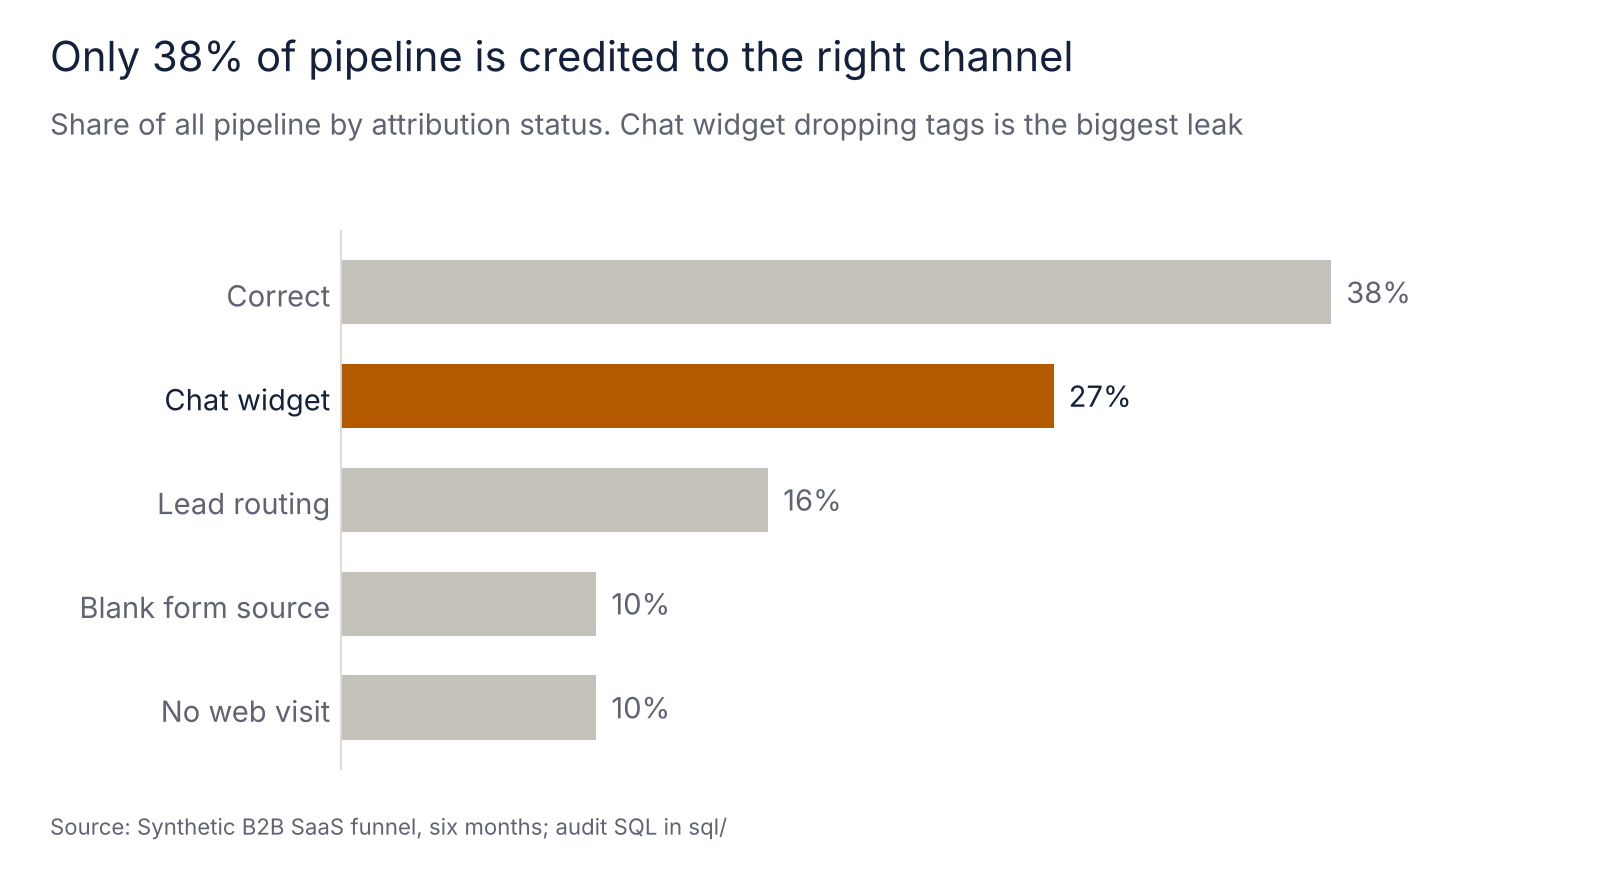
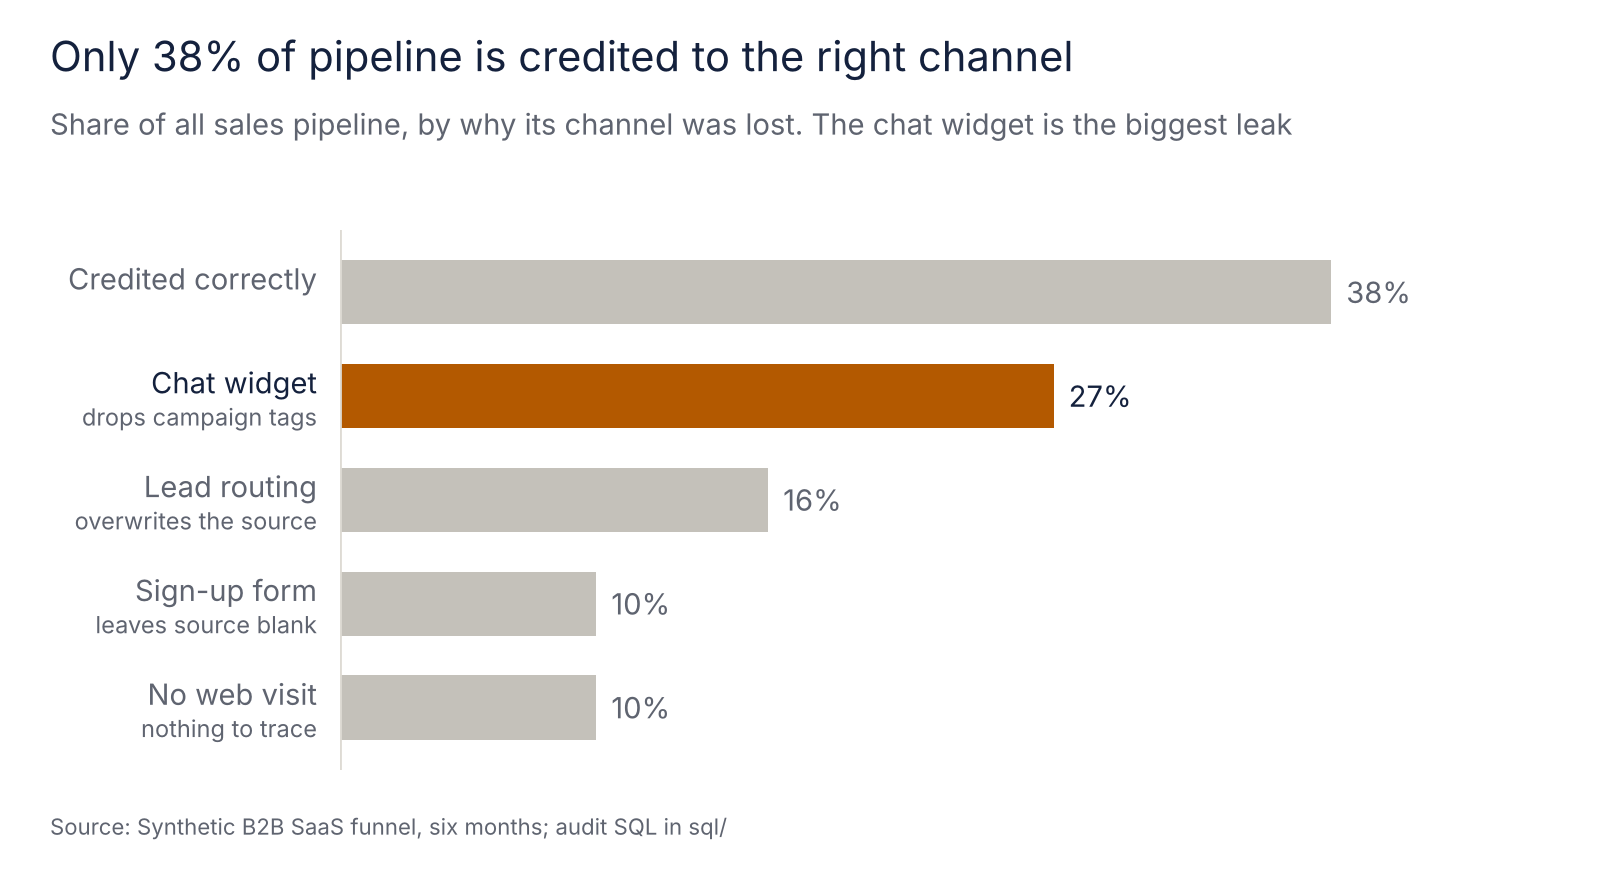
Charts a first-time reader can follow: plain headlines and explained labels

diff --git a/scripts/brand_style.py b/scripts/brand_style.py
@@ -8,6 +8,7 @@ Colours are validated with the dataviz palette checks (lightness band, chroma, c
 import matplotlib
 import matplotlib.pyplot as plt
 import matplotlib.ticker
+import matplotlib.transforms
 
 INK = "#14213d"        # navy: headlines, values, key labels
 MUTED = "#5f6470"      # deck, axis labels, source line (5.9:1 on white)
@@ -123,7 +124,23 @@ def save(fig, path):
     plt.close(fig)
 
 
-def hbar(ax, labels, values, highlight, fmt, color, xmax=None):
+def _row_labels(ax, ys, labels, highlight, sublabels=None):
+    """Category labels at the left of the plot, with an optional smaller second line that explains them."""
+    ax.set_yticks(ys)
+    if not sublabels:
+        ax.set_yticklabels(labels)
+        for i, t in enumerate(ax.get_yticklabels()):
+            t.set_color(INK if i in highlight else MUTED)
+        return
+    ax.set_yticklabels([""] * len(ys))
+    tr = matplotlib.transforms.blended_transform_factory(ax.transAxes, ax.transData)
+    for i, (y, lab, sub) in enumerate(zip(ys, labels, sublabels)):
+        ax.text(-0.02, y + 0.13, lab, transform=tr, ha="right", va="center", fontsize=VALUE,
+                color=INK if i in highlight else MUTED)
+        ax.text(-0.02, y - 0.2, sub, transform=tr, ha="right", va="center", fontsize=8.5, color=MUTED)
+
+
+def hbar(ax, labels, values, highlight, fmt, color, xmax=None, sublabels=None):
     """Horizontal bars, first item at the top. highlight: set of indexes drawn in the project colour."""
     n = len(values)
     ys = list(range(n))[::-1]
@@ -136,13 +153,10 @@ def hbar(ax, labels, values, highlight, fmt, color, xmax=None):
         small_neg = v < 0 and abs(v) < span * 0.05   # label a tiny negative on the right, like the rest
         ha, x = ("left", max(v, 0) + span * 0.015) if v >= 0 or small_neg else ("right", v - span * 0.015)
         ax.text(x, y, fmt[i] if isinstance(fmt, list) else fmt(v), va="center", ha=ha, fontsize=VALUE, color=INK if i in highlight else MUTED)
-    ax.set_yticks(ys)
-    ax.set_yticklabels(labels)
-    for i, t in enumerate(ax.get_yticklabels()):
-        t.set_color(INK if i in highlight else MUTED)
+    _row_labels(ax, ys, labels, highlight, sublabels)
     ax.set_ylim(-0.6, n - 0.4)
     big_neg = lo < -span * 0.05
-    ax.set_xlim(lo - span * 0.16 if big_neg else min(lo, 0), hi + span * 0.16)
+    ax.set_xlim(lo - span * 0.3 if big_neg else min(lo, 0), hi + span * 0.16)
     ax.set_xticks([])
     ax.axvline(0, color=HAIRLINE, linewidth=1)
     return ax
@@ -167,7 +181,7 @@ def vbar(ax, labels, values, highlight, fmt, color, ymax=None):
     return ax
 
 
-def dotrange(ax, labels, est, lo, hi, highlight, fmt, color, xlim=None, zero=True):
+def dotrange(ax, labels, est, lo, hi, highlight, fmt, color, xlim=None, zero=True, sublabels=None):
     """Estimate with its interval: a dot on a range line, first item at the top."""
     n = len(est)
     ys = list(range(n))[::-1]
@@ -177,10 +191,7 @@ def dotrange(ax, labels, est, lo, hi, highlight, fmt, color, xlim=None, zero=Tru
         ax.scatter([e], [y], s=80, color=c, zorder=3, linewidths=0)
         ax.text(e, y + 0.26, fmt(e), ha="center", va="bottom", fontsize=VALUE,
                 color=INK if i in highlight else MUTED)
-    ax.set_yticks(ys)
-    ax.set_yticklabels(labels)
-    for i, t in enumerate(ax.get_yticklabels()):
-        t.set_color(INK if i in highlight else MUTED)
+    _row_labels(ax, ys, labels, highlight, sublabels)
     ax.set_ylim(-0.6, n - 0.2)
     if xlim:
         ax.set_xlim(*xlim)

diff --git a/scripts/make_charts.py b/scripts/make_charts.py
@@ -19,8 +19,8 @@ r = pd.read_csv(RES / "reconciliation_by_channel.csv")
 r = r[~r["channel"].isin(["Direct", "Unresolved"])].sort_values("share_of_pipeline_missing", ascending=False)
 fig, ax = b.chart(height=4.6, label_in=1.3)
 b.hbar(ax, r.channel.tolist(), (r.share_of_pipeline_missing * 100).tolist(), {0}, lambda v: f"{v:.0f}%", HL)
-b.titles(fig, "Reports show none of the pipeline from in-app messages",
-         "Share of each channel's real pipeline missing from the dashboard. In-app drove $1.16M")
+b.titles(fig, "The dashboard shows none of the $1.16M pipeline from in-app messages",
+         "Share of each channel's sales pipeline missing from the marketing dashboard")
 b.credit(fig, SRC)
 b.save(fig, OUT / "01_pipeline_missing_by_channel.png")
 
@@ -28,11 +28,12 @@ b.save(fig, OUT / "01_pipeline_missing_by_channel.png")
 c = pd.read_csv(RES / "misattribution_root_causes.csv").set_index("attribution_status")
 order = ["Correct", "Chat widget dropped campaign tags", "Lead routing overwrote source", "Form left source blank",
          "Not linkable"]
-labels = ["Correct", "Chat widget", "Lead routing", "Blank form source", "No web visit"]
+labels = ["Credited correctly", "Chat widget", "Lead routing", "Sign-up form", "No web visit"]
+subs = ["", "drops campaign tags", "overwrites the source", "leaves source blank", "nothing to trace"]
 fig, ax = b.chart(height=4.4, label_in=1.45)
-b.hbar(ax, labels, [c.loc[o, "share_of_all_pipeline"] * 100 for o in order], {1}, lambda v: f"{v:.0f}%", HL)
+b.hbar(ax, labels, [c.loc[o, "share_of_all_pipeline"] * 100 for o in order], {1}, lambda v: f"{v:.0f}%", HL, sublabels=subs)
 b.titles(fig, "Only 38% of pipeline is credited to the right channel",
-         "Share of all pipeline by attribution status. Chat widget dropping tags is the biggest leak")
+         "Share of all sales pipeline, by why its channel was lost. The chat widget is the biggest leak")
 b.credit(fig, SRC)
 b.save(fig, OUT / "02_root_causes.png")
 print("Charts saved to charts/")

diff --git a/README.md b/README.md
@@ -35,7 +35,7 @@ The dataset is synthetic but realistic. It is generated with five common trackin
 
 ## Charts
 
-![Reports show none of the pipeline from in-app messages](charts/01_pipeline_missing_by_channel.png)
+![The dashboard shows none of the $1.16M pipeline from in-app messages](charts/01_pipeline_missing_by_channel.png)
 
 ![Only 38% of pipeline is credited to the right channel](charts/02_root_causes.png)
 
